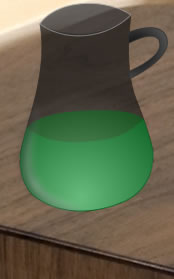
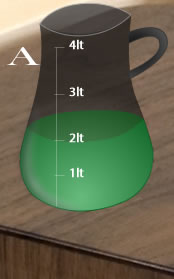
Resuelve el vaciado y llenado de las Jarras y mejorada la nueva interfaz

diff --git a/JarrasAI/src/JarrasAI.java b/JarrasAI/src/JarrasAI.java
@@ -6,13 +6,13 @@ import javax.swing.JFrame;
 public class JarrasAI extends JFrame {
 
 	// A
-	int capacidad_a = 0;
+	int capacidad_a = 4;
 	int nivelagua_a = 0;
 	int nivelaguadesde_a = 0;
 	int cantidad_a = 0;
 
 	// B
-	int capacidad_b = 0;
+	int capacidad_b = 3;
 	int nivelagua_b = 0;
 	int nivelaguadesde_b = 0;
 	int cantidad_b = 0;
@@ -94,6 +94,8 @@ public class JarrasAI extends JFrame {
 		cantidad_a = capacidad_a;
 		nivelagua_a = cantidad_a;
 		gameP.updateA(getGraphics(), "A4");
+		
+		updateJarras();
 	}
 
 	public void vaciarA() {
@@ -101,66 +103,94 @@ public class JarrasAI extends JFrame {
 		cantidad_a = 0;
 		nivelagua_a = 0;
 		gameP.updateA(getGraphics(), "A");
+		
+		updateJarras();
 	}
 
 	public void pasaraB() {
-		// pasaraB
-		if (nivelagua_b == 0) {
-			if (capacidad_a < capacidad_b)
-				nivelaguadesde_a = nivelagua_a;
-			if (capacidad_a > capacidad_b)
-				nivelaguadesde_a = capacidad_b;
+		int sumatoria = cantidad_a + cantidad_b;
+		
+		if(sumatoria > capacidad_b) {
+			
+			cantidad_a = sumatoria - capacidad_b;
+			nivelagua_a = cantidad_a;
+			cantidad_b = capacidad_b;
+			nivelagua_b = cantidad_b;
+		} else {
+			
+			cantidad_a = 0;
+			nivelagua_a = cantidad_a;
+			cantidad_b = sumatoria;
+			nivelagua_b = cantidad_b;
 		}
-
-		if (nivelagua_b > 0)
-			nivelaguadesde_a = capacidad_b - nivelagua_b;
-
-		nivelagua_b = nivelagua_b + nivelaguadesde_a;
-		cantidad_b = nivelagua_b;
-		nivelagua_a = nivelagua_a - nivelaguadesde_a;
-		cantidad_a = nivelagua_a;
+		
+		
+		updateJarras();
 	}
 
 	public void llenarB() {
 		cantidad_b = capacidad_b;
 		nivelagua_b = cantidad_b;
-		gameP.updateB(getGraphics(), "B3");
+		
+		updateJarras();
 	}
 
 	public void vaciarB() {
 		cantidad_b = 0;
 		nivelagua_b = 0;
-		gameP.updateB(getGraphics(), "B");
+		
+		updateJarras();
 	}
 
 	public void pasaraA() {
-		if (nivelagua_a == 0) {
-			if (capacidad_b < capacidad_a)
-				nivelaguadesde_b = nivelagua_b;
-			if (capacidad_b > capacidad_a)
-				nivelaguadesde_b = capacidad_a;
+		int sumatoria = cantidad_a + cantidad_b;
+		
+		if(sumatoria > capacidad_a) {
+			
+			cantidad_b = sumatoria - capacidad_a;
+			nivelagua_b = cantidad_b;
+			cantidad_a = capacidad_a;
+			nivelagua_a = cantidad_a;
+		} else {
+			
+			cantidad_b = 0;
+			nivelagua_b = cantidad_b;
+			cantidad_a = sumatoria;
+			nivelagua_a = cantidad_a;
 		}
-		if (nivelagua_a > 0)
-			nivelaguadesde_b = capacidad_a - nivelagua_a;
-		nivelagua_a = nivelagua_a + nivelaguadesde_b;
-		cantidad_a = nivelagua_a;
-		nivelagua_b = nivelagua_b - nivelaguadesde_b;
-		cantidad_b = nivelagua_b;
+		
+		updateJarras();
 	}
 
 	public void vaciarTodo() {
 		// A
-		capacidad_a = 0;
 		nivelagua_a = 0;
 		nivelaguadesde_a = 0;
 		cantidad_a = 0;
 		// B
-		capacidad_b = 0;
 		nivelagua_b = 0;
 		nivelaguadesde_b = 0;
 		cantidad_b = 0;
 
-		gameP.updateA(getGraphics(), "A");
-		gameP.updateB(getGraphics(), "B");
+		updateJarras();
 	}
+	
+	public void updateJarras() {
+		gameP.updateA(getGraphics(), "A" + nivelagua_a);
+		gameP.updateB(getGraphics(), "B" + nivelagua_b);
+		
+//		mostrarResultados();
+	}
+	
+//	private void mostrarResultados() {
+//		System.out.println("nivelagua_a: " + nivelagua_a);
+//		System.out.println("nivelaguadesde_a: " + nivelaguadesde_a);
+//		System.out.println("cantidad_a: " + cantidad_a);
+//		System.out.println("      ");
+//		System.out.println("nivelagua_b: " + nivelagua_b);
+//		System.out.println("nivelaguadesde_b: " + nivelaguadesde_b);
+//		System.out.println("cantidad_b: " + cantidad_b);
+//		System.out.println("***********************");
+//	}
+
 }

diff --git a/JarrasAI/src/GamePanel.java b/JarrasAI/src/GamePanel.java
@@ -18,10 +18,10 @@ public class GamePanel extends JPanel {
 		g.drawImage(imagen, 0, 0, null);
 
 		// Poner las jarras vacias
-		Image imagenA = new ImageIcon("A.jpg").getImage();
+		Image imagenA = new ImageIcon("A0.jpg").getImage();
 		g.drawImage(imagenA, 0, 0, null);
 		
-		Image imagenB = new ImageIcon("B.jpg").getImage();
+		Image imagenB = new ImageIcon("B0.jpg").getImage();
 		g.drawImage(imagenB, 176, 0, null);
 	}
 	
